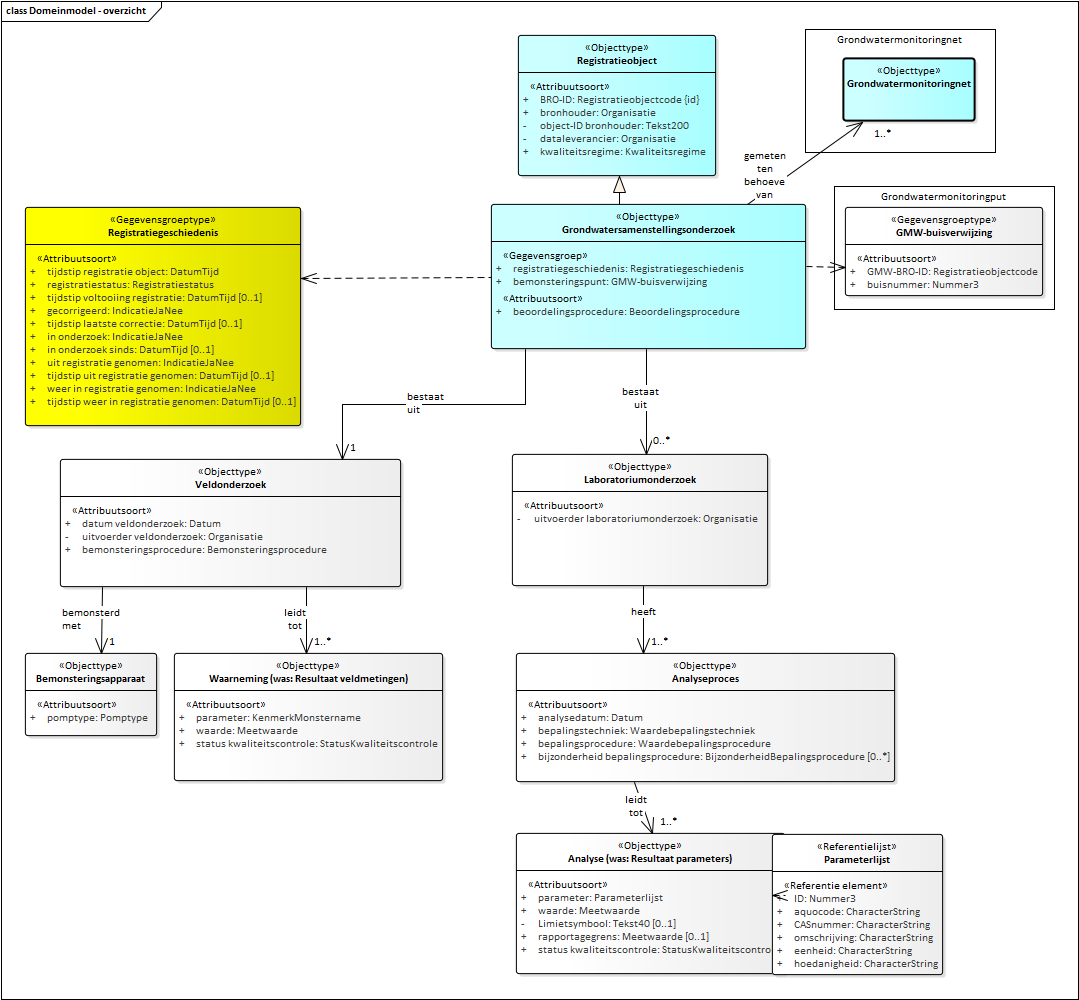
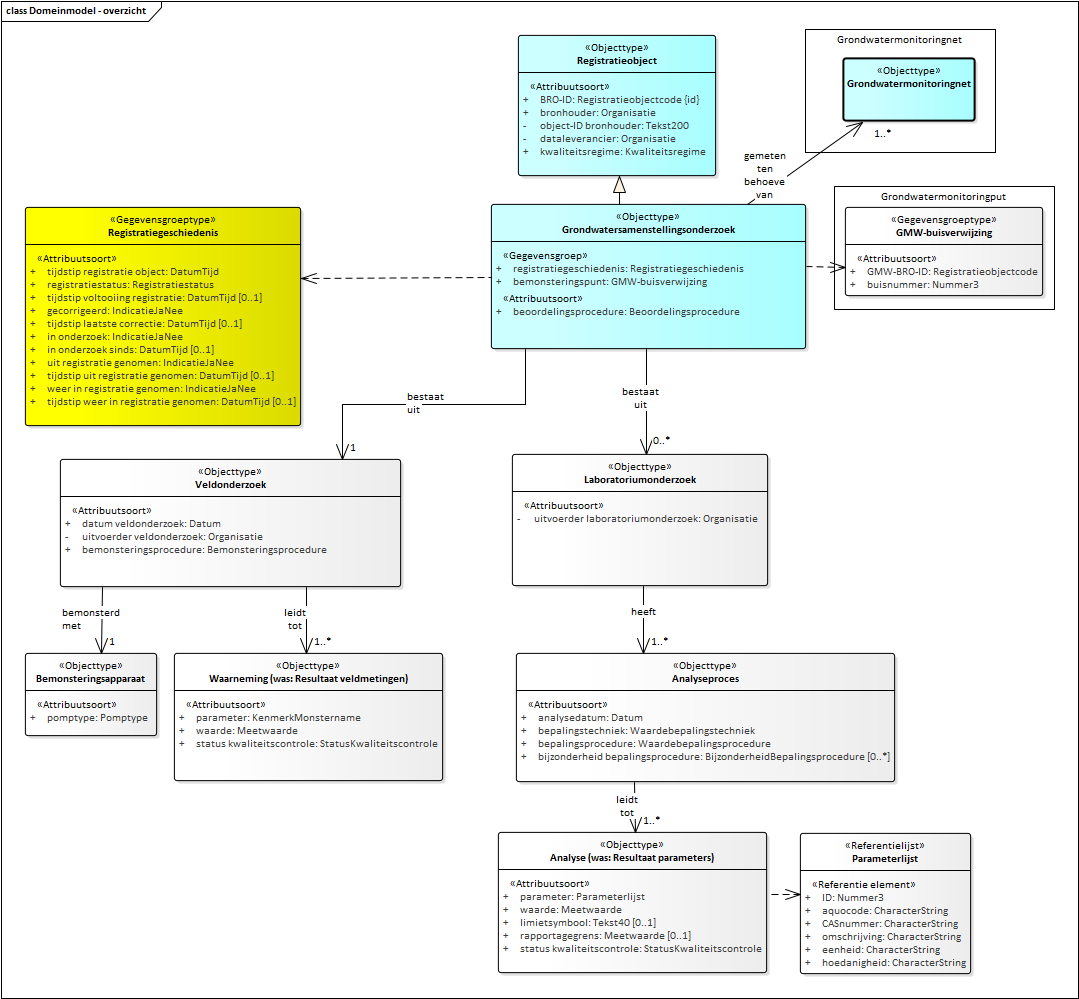
Conceptualmodel-GrondwatersamenstellingsonderzoekGAR-0.9.1-2-20190328-20190625-162620

diff --git a/data/GAR-cat.html b/data/GAR-cat.html
@@ -2,16 +2,16 @@
 <section id="cat" class="normative" level="1">
    <h2>Catalogus</h2>
    <p><b>Deze tekst is normatief.</b>
-      <!--Conceptualmodel-GrondwatersamenstellingsonderzoekGAR-0.9.1-2-20190328-20190621-121957 imvertor 1.53.2--></p>
+      <!--Conceptualmodel-GrondwatersamenstellingsonderzoekGAR-0.9.1-2-20190328-20190625-162620 imvertor 1.53.2--></p>
    <div class="imageinfo overview"><img src="data/Images/EAID_BBDCFEE2_BB5A_4b62_99F2_796C8F526D8F.png" usemap="#imagemap-EAID_BBDCFEE2_BB5A_4b62_99F2_796C8F526D8F"><map name="imagemap-EAID_BBDCFEE2_BB5A_4b62_99F2_796C8F526D8F">
          <area shape="rect" coords="845,296,1043,207" alt="" href="#graph_EAID_011FAD14_41B1_4602_8F25_0AD94DBE2504">
-         <area shape="rect" coords="772,975,943,834" alt="" href="#graph_EAID_FEC2B1DD_E5C2_4c90_8B71_B69ADC431AB0">
+         <area shape="rect" coords="800,974,971,833" alt="" href="#graph_EAID_FEC2B1DD_E5C2_4c90_8B71_B69ADC431AB0">
          <area shape="rect" coords="843,121,975,58" alt="" href="#graph_EAID_F327F5A5_BFAE_4282_A78C_984A77CF8D47">
          <area shape="rect" coords="516,782,895,653" alt="" href="#graph_EAID_13B17A95_9027_44e5_8888_932C8C1AB2BB">
          <area shape="rect" coords="25,426,301,207" alt="" href="#graph_EAID_1A4A86E8_DCE8_4333_9C41_64200925A079">
          <area shape="rect" coords="518,176,716,35" alt="" href="#graph_EAID_933522FF_DE42_4e2d_A209_EAAC1B0132CF">
          <area shape="rect" coords="25,736,157,653" alt="" href="#graph_EAID_161FA1ED_4217_4735_BFA8_EC93200FFA67">
-         <area shape="rect" coords="516,974,785,833" alt="" href="#graph_EAID_0ADEB093_BDEB_47f4_B5B0_8E0E0A003E0D">
+         <area shape="rect" coords="498,973,767,832" alt="" href="#graph_EAID_0ADEB093_BDEB_47f4_B5B0_8E0E0A003E0D">
          <area shape="rect" coords="512,586,768,454" alt="" href="#graph_EAID_438F8C26_FF54_4aff_AD7F_C6521BD69D2D">
          <area shape="rect" coords="174,781,443,653" alt="" href="#graph_EAID_842A7CA1_C8F1_4165_A1C4_90E8FA408109">
          <area shape="rect" coords="60,587,401,459" alt="" href="#graph_EAID_2F5089D1_4361_456b_8D24_ED2114330AAD">
@@ -1046,6 +1046,12 @@
                         gebruikte, <em>beoordelingsprocedure</em>.
                      </p>
                      
+                     <p xmlns="http://www.w3.org/1999/xhtml" xmlns:html="http://www.w3.org/1999/xhtml" xmlns:imvert="http://www.imvertor.org/schema/system">--Toelichting—
+                        Bij gegevens met het IMBRO/A kwaliteitsregime kan het voorkomen dat de beoordelingsprocedure
+                        onbekend is of dat het niet mogelijk is de volledige procedure uit te voeren omdat
+                        daarvoor gegevens ontbreken.
+                     </p>
+                     
                   </td>
                   <td>
                      <a class="link" href="#global_class_Model_StatusKwaliteitscontrole">StatusKwaliteitscontrole</a>
@@ -1471,7 +1477,9 @@
                   </td>
                   <td>
                      
-                     <p xmlns="http://www.w3.org/1999/xhtml" xmlns:html="http://www.w3.org/1999/xhtml" xmlns:imvert="http://www.imvertor.org/schema/system">Het gemeten gehalte of de waargenomen waarde van de parameter.</p>
+                     <p xmlns="http://www.w3.org/1999/xhtml" xmlns:html="http://www.w3.org/1999/xhtml" xmlns:imvert="http://www.imvertor.org/schema/system">Het gemeten gehalte of de waargenomen waarde van de parameter. Wanneer het limietsymbool
+                        aanwezig is, wordt hier de grenswaarde in plaats van de gemeten waarde geregistreerd.
+                     </p>
                      
                   </td>
                   <td>
@@ -1482,13 +1490,13 @@
                </tr>
                <tr>
                   <td>
-                     <a class="link" href="#detail_attribute_Model_AnalyseWasResultaatParameters_limietsymbool">Limietsymbool</a>
+                     <a class="link" href="#detail_attribute_Model_AnalyseWasResultaatParameters_limietsymbool">limietsymbool</a>
                      
                   </td>
                   <td>
                      
-                     <p xmlns="http://www.w3.org/1999/xhtml" xmlns:html="http://www.w3.org/1999/xhtml" xmlns:imvert="http://www.imvertor.org/schema/system">'&lt;' staat voor kleiner dan laagste detectiegrens of rapportagegrens
-                        '&gt;' staat voor groter dan hoogste detectiegrens.
+                     <p xmlns="http://www.w3.org/1999/xhtml" xmlns:html="http://www.w3.org/1999/xhtml" xmlns:imvert="http://www.imvertor.org/schema/system">'&lt;' betekent dat de waarde kleiner is dan de laagste detectiegrens of rapportagegrens
+                        '&gt;' betekent dat de waarde groter is dan de hoogste detectiegrens.
                      </p>
                      
                   </td>
@@ -1506,8 +1514,8 @@
                   <td>
                      
                      <p xmlns="http://www.w3.org/1999/xhtml" xmlns:html="http://www.w3.org/1999/xhtml" xmlns:imvert="http://www.imvertor.org/schema/system">De door het uitvoerende laboratorium met de opdrachtgever afgesproken kleinste waarde
-                        van het gemeten gehalte of de waargenomen waarde van de parameter in een monster die
-                        wordt gerapporteerd aan de opdrachtgever.
+                        van het gemeten gehalte of de waargenomen waarde van de parameter in een monster,
+                        die wordt gerapporteerd aan de opdrachtgever.
                      </p>
                      
                   </td>
@@ -1527,6 +1535,12 @@
                      <p xmlns="http://www.w3.org/1999/xhtml" xmlns:html="http://www.w3.org/1999/xhtml" xmlns:imvert="http://www.imvertor.org/schema/system">Het eindoordeel van de bronhouder over de betrouwbaarheid van een individuele meting
                         van het grondwatersamenstellingsonderzoek op basis van een, voor het hele onderzoek
                         gebruikte, <em>beoordelingsprocedure</em>.
+                     </p>
+                     
+                     <p xmlns="http://www.w3.org/1999/xhtml" xmlns:html="http://www.w3.org/1999/xhtml" xmlns:imvert="http://www.imvertor.org/schema/system">--Toelichting—
+                        Bij gegevens met het IMBRO/A kwaliteitsregime kan het voorkomen dat de beoordelingsprocedure
+                        onbekend is of dat het niet mogelijk is de volledige procedure uit te voeren omdat
+                        daarvoor gegevens ontbreken.
                      </p>
                      
                   </td>
@@ -3991,6 +4005,12 @@
                            gebruikte, <em>beoordelingsprocedure</em>.
                         </p>
                         
+                        <p xmlns="http://www.w3.org/1999/xhtml" xmlns:html="http://www.w3.org/1999/xhtml" xmlns:imvert="http://www.imvertor.org/schema/system">--Toelichting—
+                           Bij gegevens met het IMBRO/A kwaliteitsregime kan het voorkomen dat de beoordelingsprocedure
+                           onbekend is of dat het niet mogelijk is de volledige procedure uit te voeren omdat
+                           daarvoor gegevens ontbreken.
+                        </p>
+                        
                      </td>
                   </tr>
                   <tr>
@@ -4016,16 +4036,6 @@
                   <tr>
                      <th>Indicatie authentiek</th>
                      <td>Authentiek</td>
-                  </tr>
-                  <tr>
-                     <th>Regels IMBRO/A</th>
-                     <td>
-                        
-                        <p xmlns="http://www.w3.org/1999/xhtml" xmlns:html="http://www.w3.org/1999/xhtml" xmlns:imvert="http://www.imvertor.org/schema/system">Wanneer de waarde van het gegeven gelijk is aan “nietVolledig”, is de waarde van het
-                           attribuut <em>beoordelingsprocedure</em>van de entiteit <em>Grondwatersamenstellingsonderzoek</em>niet gelijk aan “onbekend”.
-                        </p>
-                        
-                     </td>
                   </tr>
                   <tr>
                      <th>Formaat</th>
@@ -4653,7 +4663,9 @@
                      <th>Definitie</th>
                      <td>
                         
-                        <p xmlns="http://www.w3.org/1999/xhtml" xmlns:html="http://www.w3.org/1999/xhtml" xmlns:imvert="http://www.imvertor.org/schema/system">Het gemeten gehalte of de waargenomen waarde van de parameter.</p>
+                        <p xmlns="http://www.w3.org/1999/xhtml" xmlns:html="http://www.w3.org/1999/xhtml" xmlns:imvert="http://www.imvertor.org/schema/system">Het gemeten gehalte of de waargenomen waarde van de parameter. Wanneer het limietsymbool
+                           aanwezig is, wordt hier de grenswaarde in plaats van de gemeten waarde geregistreerd.
+                        </p>
                         
                      </td>
                   </tr>
@@ -4665,7 +4677,9 @@
                      <th>Toelichting</th>
                      <td>
                         
-                        <p xmlns="http://www.w3.org/1999/xhtml" xmlns:html="http://www.w3.org/1999/xhtml" xmlns:imvert="http://www.imvertor.org/schema/system">De bronhouder mag bij een waarde die kleiner is dan de waarde van het attribuut <em>rapportagegrens</em> besluiten of hij de waarde aanlevert of niet. 
+                        <p xmlns="http://www.w3.org/1999/xhtml" xmlns:html="http://www.w3.org/1999/xhtml" xmlns:imvert="http://www.imvertor.org/schema/system">De bronhouder mag bij een gemeten waarde die kleiner is dan de waarde van het attribuut
+                           <em>rapportagegrens</em> besluiten of hij de gemeten waarde aanlevert of niet. Wanneer de bronhouder de gemeten
+                           waarde niet aanlevert, wordt in dit attribuut de rapportagegrens geregistreerd.
                            De waarde wordt uitgedrukt in een meeteenheid. De meeteenheid is afhankelijk van de
                            waarde van het attribuut <em>parameter</em>. De aan te leveren meeteenheid is vastgelegd in de referentietabel <em>Parameterlijst</em>. Een dimensieloze waarde heeft een meeteenheid 1 (cijfer 1).
                         </p>
@@ -4693,16 +4707,6 @@
                      <td>Authentiek</td>
                   </tr>
                   <tr>
-                     <th>Regels</th>
-                     <td>
-                        
-                        <p xmlns="http://www.w3.org/1999/xhtml" xmlns:html="http://www.w3.org/1999/xhtml" xmlns:imvert="http://www.imvertor.org/schema/system">Het gegeven is aanwezig wanneer de waarde van het attribuut groter is dan de waarde
-                           van het attribuut <em>rapportagegrens</em>. In andere gevallen mag het gegeven ontbreken.
-                        </p>
-                        
-                     </td>
-                  </tr>
-                  <tr>
                      <th>Formaat</th>
                      <td>Meetwaarde</td>
                   </tr>
@@ -4719,7 +4723,7 @@
             
          </section>
          <a class="anchor" name="detail_attribute_Model_AnalyseWasResultaatParameters_limietsymbool"></a><section id="detail_attribute_Model_AnalyseWasResultaatParameters_limietsymbool" level="5">
-            <h5>Attribuutsoort details <a href="#global_class_Model_AnalyseWasResultaatParameters">Analyse (was: Resultaat parameters)</a> Limietsymbool
+            <h5>Attribuutsoort details <a href="#global_class_Model_AnalyseWasResultaatParameters">Analyse (was: Resultaat parameters)</a> limietsymbool
             </h5>
             
             <table>
@@ -4728,7 +4732,7 @@
                <tbody>
                   <tr>
                      <th>Naam</th>
-                     <td>Limietsymbool</td>
+                     <td>limietsymbool</td>
                   </tr>
                   <tr>
                      <th>Herkomst</th>
@@ -4738,8 +4742,8 @@
                      <th>Definitie</th>
                      <td>
                         
-                        <p xmlns="http://www.w3.org/1999/xhtml" xmlns:html="http://www.w3.org/1999/xhtml" xmlns:imvert="http://www.imvertor.org/schema/system">'&lt;' staat voor kleiner dan laagste detectiegrens of rapportagegrens
-                           '&gt;' staat voor groter dan hoogste detectiegrens.
+                        <p xmlns="http://www.w3.org/1999/xhtml" xmlns:html="http://www.w3.org/1999/xhtml" xmlns:imvert="http://www.imvertor.org/schema/system">'&lt;' betekent dat de waarde kleiner is dan de laagste detectiegrens of rapportagegrens
+                           '&gt;' betekent dat de waarde groter is dan de hoogste detectiegrens.
                         </p>
                         
                      </td>
@@ -4753,9 +4757,9 @@
                      <td>
                         
                         <p xmlns="http://www.w3.org/1999/xhtml" xmlns:html="http://www.w3.org/1999/xhtml" xmlns:imvert="http://www.imvertor.org/schema/system">Het gegeven is alleen aanwezig wanneer het gemeten gehalte ofwel lager is dan de kleinste
-                           waarde van het gemeten gehalte dat wordt gerapporteerd aan de opdrachtgever, ofwel
-                           hoger is dan de hoogste waarde waarde die nog met een bepaalde nauwkeurigheid kan
-                           worden vastgesteld en gerapporteerd wordt aan de opdrachtgever.
+                           waarde van het gehalte dat wordt gerapporteerd aan de opdrachtgever, ofwel hoger is
+                           dan de hoogste waarde die nog met een bepaalde nauwkeurigheid kan worden vastgesteld
+                           en wordt gerapporteerd aan de opdrachtgever.
                         </p>
                         
                      </td>
@@ -4785,7 +4789,7 @@
                      <td>
                         
                         <p xmlns="http://www.w3.org/1999/xhtml" xmlns:html="http://www.w3.org/1999/xhtml" xmlns:imvert="http://www.imvertor.org/schema/system">Het gegeven mag ontbreken.
-                           Wanneer het gegevens aanwezig is, moet het de waarde: &lt; of de waarde &gt; hebben.
+                           Wanneer het gegeven aanwezig is, moet het de waarde: &lt; of de waarde &gt; hebben.
                         </p>
                         
                      </td>
@@ -4823,8 +4827,8 @@
                      <td>
                         
                         <p xmlns="http://www.w3.org/1999/xhtml" xmlns:html="http://www.w3.org/1999/xhtml" xmlns:imvert="http://www.imvertor.org/schema/system">De door het uitvoerende laboratorium met de opdrachtgever afgesproken kleinste waarde
-                           van het gemeten gehalte of de waargenomen waarde van de parameter in een monster die
-                           wordt gerapporteerd aan de opdrachtgever.
+                           van het gemeten gehalte of de waargenomen waarde van de parameter in een monster,
+                           die wordt gerapporteerd aan de opdrachtgever.
                         </p>
                         
                      </td>
@@ -4837,10 +4841,12 @@
                      <th>Toelichting</th>
                      <td>
                         
-                        <p xmlns="http://www.w3.org/1999/xhtml" xmlns:html="http://www.w3.org/1999/xhtml" xmlns:imvert="http://www.imvertor.org/schema/system">Afhankelijk van de aspraak tussen de opdrachtnemer en de opdrachtgever kan de rapportagegrens
-                           gelijk zijn aan de detectiegrens.
-                           Waarden boven deze grenswaarde worden gerapporteerd. Bij een gemeten gehalte onder
-                           deze grenswaarde wordt de grenswaarde gerapporteerd. 
+                        <p xmlns="http://www.w3.org/1999/xhtml" xmlns:html="http://www.w3.org/1999/xhtml" xmlns:imvert="http://www.imvertor.org/schema/system">Afhankelijk van de afspraak tussen de opdrachtnemer en de opdrachtgever kan de rapportagegrens
+                           gelijk zijn aan de detectiegrens. In andere gevallen is de detectiegrens lager dan
+                           de rapportagegrens.
+                           Waarden boven de rapportagegrens worden gerapporteerd aan de opdrachtgever. Bij een
+                           gemeten gehalte onder deze grenswaarde wordt de grenswaarde gerapporteerd aan de opdrachtgever.
+                           
                            De waarde wordt uitgedrukt in een meeteenheid. De meeteenheid is afhankelijk van de
                            waarde van het attribuut <em>parameter</em>. De aan te leveren meeteenheid is vastgelegd in de referentietabel <em>Parameterlijst</em>. Een dimensieloze waarde heeft een meeteenheid 1 (cijfer 1).
                         </p>
@@ -4866,14 +4872,6 @@
                   <tr>
                      <th>Indicatie authentiek</th>
                      <td>Authentiek</td>
-                  </tr>
-                  <tr>
-                     <th>Regels IMBRO/A</th>
-                     <td>
-                        
-                        <p xmlns="http://www.w3.org/1999/xhtml" xmlns:html="http://www.w3.org/1999/xhtml" xmlns:imvert="http://www.imvertor.org/schema/system">Voor IMBRO/A gegevens kan de rapportagegrens niet bekend zijn.</p>
-                        
-                     </td>
                   </tr>
                   <tr>
                      <th>Formaat</th>
@@ -4912,6 +4910,12 @@
                            gebruikte, <em>beoordelingsprocedure</em>.
                         </p>
                         
+                        <p xmlns="http://www.w3.org/1999/xhtml" xmlns:html="http://www.w3.org/1999/xhtml" xmlns:imvert="http://www.imvertor.org/schema/system">--Toelichting—
+                           Bij gegevens met het IMBRO/A kwaliteitsregime kan het voorkomen dat de beoordelingsprocedure
+                           onbekend is of dat het niet mogelijk is de volledige procedure uit te voeren omdat
+                           daarvoor gegevens ontbreken.
+                        </p>
+                        
                      </td>
                   </tr>
                   <tr>
@@ -4939,16 +4943,6 @@
                      <td>Authentiek</td>
                   </tr>
                   <tr>
-                     <th>Regels IMBRO/A</th>
-                     <td>
-                        
-                        <p xmlns="http://www.w3.org/1999/xhtml" xmlns:html="http://www.w3.org/1999/xhtml" xmlns:imvert="http://www.imvertor.org/schema/system">Wanneer de waarde van het gegeven gelijk is aan “nietVolledig”, is de waarde van het
-                           attribuut <em>beoordelingsprocedure</em>van de entiteit <em>Grondwatersamenstellingsonderzoek</em>niet gelijk aan “onbekend”.
-                        </p>
-                        
-                     </td>
-                  </tr>
-                  <tr>
                      <th>Formaat</th>
                      <td>StatusKwaliteitscontrole</td>
                   </tr>
@@ -4973,7 +4967,7 @@
 <section id="lis" class="normative" level="1">
    <h2>Inhoud van waardenlijsten</h2>
    <p><b>Deze tekst is normatief.</b>
-      <!--Conceptualmodel-GrondwatersamenstellingsonderzoekGAR-0.9.1-2-20190328-20190621-121957 imvertor 1.53.2--></p><a class="anchor" name="graph_EAID_FEC2B1DD_E5C2_4c90_8B71_B69ADC431AB0"></a><a class="anchor" name="detail_class_Model_Parameterlijst"></a><section id="detail_class_Model_Parameterlijst" level="3">
+      <!--Conceptualmodel-GrondwatersamenstellingsonderzoekGAR-0.9.1-2-20190328-20190625-162620 imvertor 1.53.2--></p><a class="anchor" name="graph_EAID_FEC2B1DD_E5C2_4c90_8B71_B69ADC431AB0"></a><a class="anchor" name="detail_class_Model_Parameterlijst"></a><section id="detail_class_Model_Parameterlijst" level="3">
       <h3>Referentielijst inhoud Parameterlijst</h3>
       
       <table>
@@ -10082,6 +10076,11 @@
                      
                   </p>
                   
+                  <p xmlns="http://www.w3.org/1999/xhtml" xmlns:html="http://www.w3.org/1999/xhtml" xmlns:imvert="http://www.imvertor.org/schema/system">Bij IMBRO/A gegevens kan het voorkomen dat de <em>beoordelingsprocedure</em> onbekend is of dat het niet mogelijk is de volledige procedure uit te voeren omdat
+                     daarvoor gegevens ontbreken. Desondanks is er geen reden om aan de juistheid van dit
+                     gegeven te twijfelen.
+                  </p>
+                  
                </td>
             </tr>
             <tr>
@@ -10090,7 +10089,13 @@
                <td>✔</td>
                <td>
                   
-                  <p xmlns="http://www.w3.org/1999/xhtml" xmlns:html="http://www.w3.org/1999/xhtml" xmlns:imvert="http://www.imvertor.org/schema/system">Er zijn op basis is van de gehanteerde <em>beoordelingsprocedure</em> twijfels over de juistheid van dit gegeven, maar uitsluitsel kon niet gegeven worden.
+                  <p xmlns="http://www.w3.org/1999/xhtml" xmlns:html="http://www.w3.org/1999/xhtml" xmlns:imvert="http://www.imvertor.org/schema/system">Er zijn twijfels over de juistheid van dit gegeven, maar uitsluitsel kon niet gegeven
+                     worden op basis is van de gehanteerde <em>beoordelingsprocedure</em>.
+                  </p>
+                  
+                  <p xmlns="http://www.w3.org/1999/xhtml" xmlns:html="http://www.w3.org/1999/xhtml" xmlns:imvert="http://www.imvertor.org/schema/system">De beoordeling kan bij IMBRO/A gegevens tot stand gekomen zijn aan de hand van een
+                     niet volledig uitgevoerde <em>beoordelingsprocedure</em>omdat daarvoor gegevens ontbreken, of aan de hand van een onbekende <em>beoordelingsprocedure.</em>
+                     
                   </p>
                   
                </td>
@@ -10106,6 +10111,11 @@
                      
                   </p>
                   
+                  <p xmlns="http://www.w3.org/1999/xhtml" xmlns:html="http://www.w3.org/1999/xhtml" xmlns:imvert="http://www.imvertor.org/schema/system">De beoordeling kan bij IMBRO/A gegevens tot stand gekomen zijn aan de hand van een
+                     niet volledig uitgevoerde <em>beoordelingsprocedure</em>omdat daarvoor gegevens ontbreken, of aan de hand van een onbekende <em>beoordelingsprocedure.</em>
+                     
+                  </p>
+                  
                </td>
             </tr>
             <tr>
@@ -10116,18 +10126,6 @@
                   
                   <p xmlns="http://www.w3.org/1999/xhtml" xmlns:html="http://www.w3.org/1999/xhtml" xmlns:imvert="http://www.imvertor.org/schema/system">Er is geen beoordeling gedaan van de kwaliteit, of het is onbekend of er een beoordeling
                      is gedaan (IMBRO/A kwaliteitsregime). 
-                  </p>
-                  
-               </td>
-            </tr>
-            <tr>
-               <td>nietVolledig</td>
-               <td></td>
-               <td>✔</td>
-               <td>
-                  
-                  <p xmlns="http://www.w3.org/1999/xhtml" xmlns:html="http://www.w3.org/1999/xhtml" xmlns:imvert="http://www.imvertor.org/schema/system">Er kon geen volledige beoordeling van de kwaliteit worden gedaan omdat daarvoor gegevens
-                     ontbreken. (IMBRO/A kwaliteitsregime). 
                   </p>
                   
                </td>
